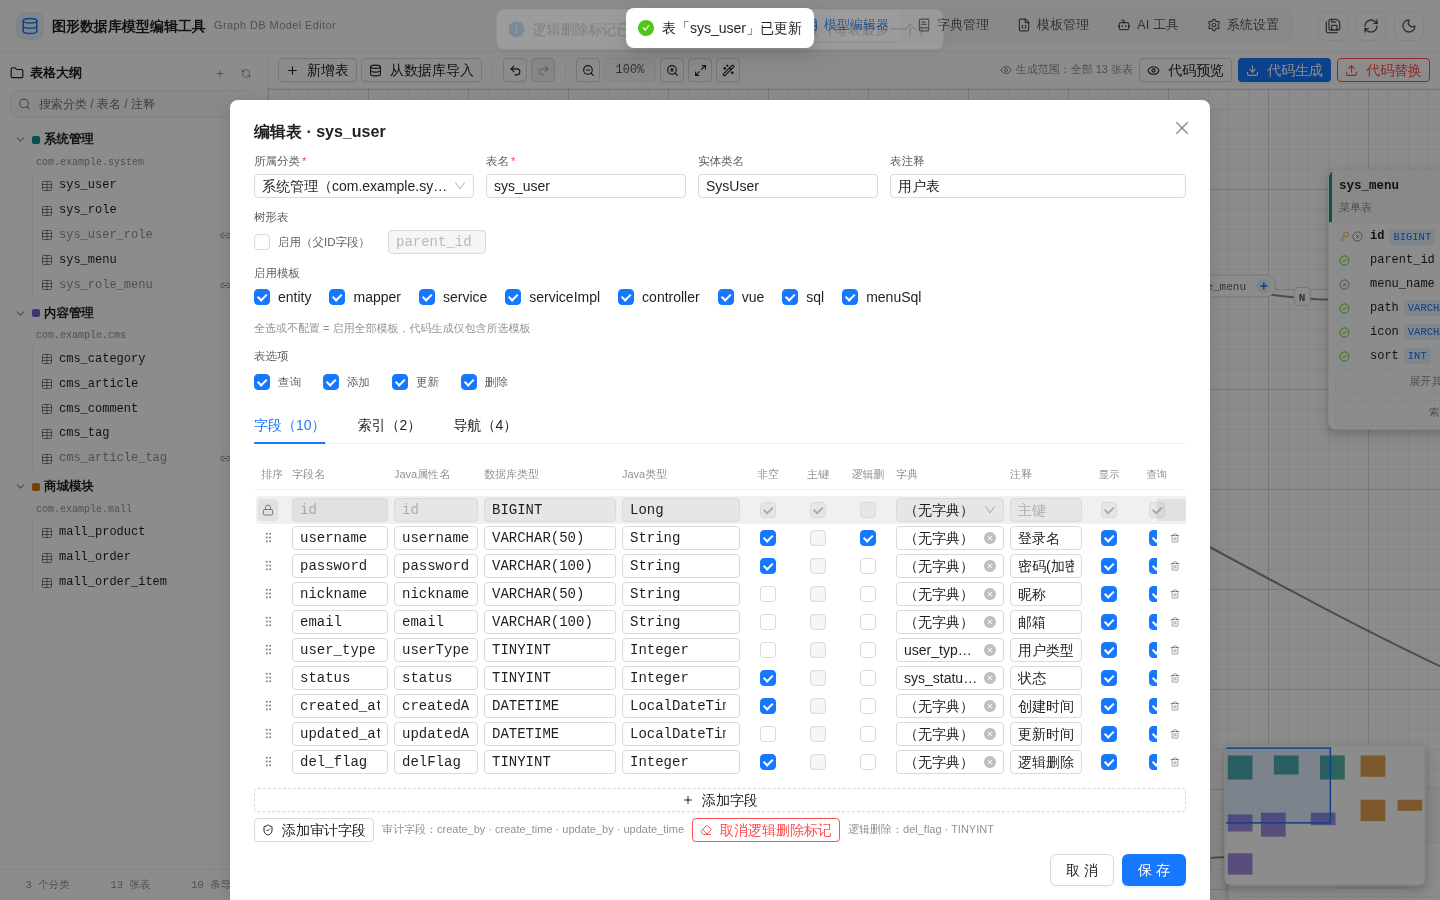
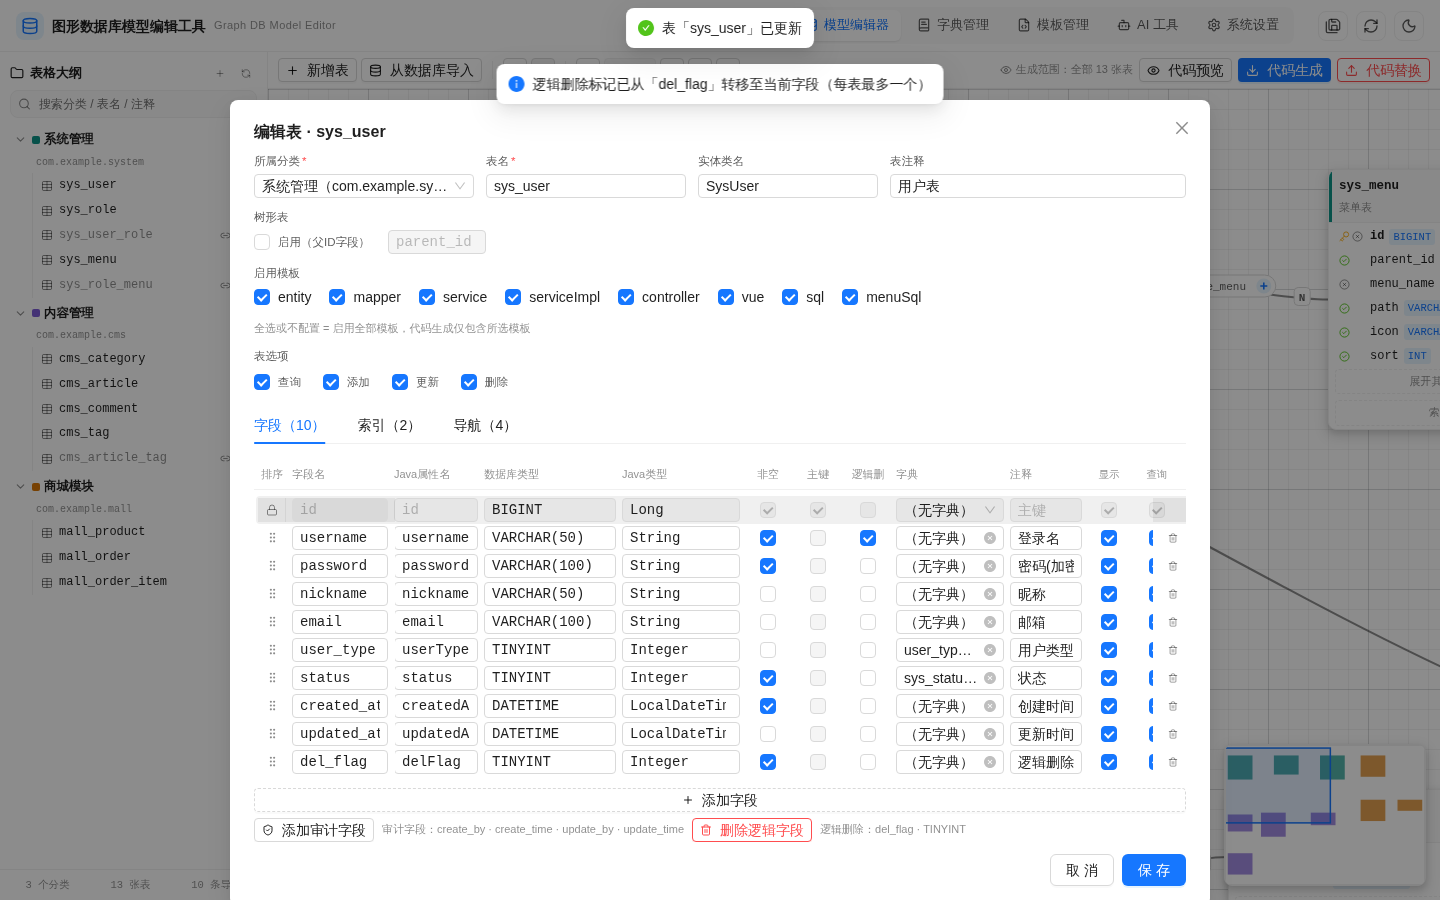
fix: 表编辑固定列滚动透出修复 + 删除逻辑字段改为整列移除——排序/字段名/删除三处固定位置包 .cell-pin 包裹层承担 sticky 吸附并 align-self:stretch 纵向铺满行轨（根因：行高由行内最高格子决定而原 sticky 格子按内容高度居中，上下留空致滚动内容从排序/字段名缝隙与删除按钮底部透出；包裹层连同遮缝伪元素纵向全覆盖，内部控件 flex 居中不变形，表头格子的缝隙仍由表头容器不透明背景兜底），「删除逻辑字段」按钮（原「取消逻辑删除标记」）直接删除该字段并重排序号而非仅置 logicDelete=false，主键首行防御性仅清标记；E2E 新增 19 

Changed region(s): [[0.3438, 0.0622, 0.6562, 0.1244], [0.5, 0.9022, 0.6875, 0.9333]]

diff --git a/src/components/dialog/TableEditDialog.vue b/src/components/dialog/TableEditDialog.vue
@@ -427,15 +427,24 @@ function addLogicDeleteField() {
   message.success(`已按设置约定添加逻辑删除字段「${name}」`)
 }
 
-/** 取消逻辑删除标记（不删列本身，字段可能承载其他用途） */
+/** 删除逻辑删除字段（整列移除并重排序号；主键首行防御性仅清标记） */
 function removeLogicDeleteField() {
   const col = logicDeleteColumn.value
   if (!col) {
     message.info('当前表没有逻辑删除字段')
     return
   }
-  col.logicDelete = false
-  message.success('已取消逻辑删除标记')
+  const name = col.columnName.trim() || col.propertyName || '未命名字段'
+  const idx = draft.columns.indexOf(col)
+  if (idx > 0) {
+    draft.columns.splice(idx, 1)
+    renumber()
+    message.success(`已删除逻辑删除字段「${name}」`)
+  } else {
+    // 防御：主键首行不可删（正常情况下主键行不会带逻辑删除标记）
+    col.logicDelete = false
+    message.warning('主键行不可删除，已仅清除其逻辑删除标记')
+  }
 }
 
 function addColumn() {
@@ -808,30 +817,35 @@ async function save() {
               @dragover.prevent="columnDrag.onDragOver(idx, $event)"
               @drop.prevent="columnDrag.onDrop()"
             >
-              <!-- 主键首行：锁定图标（不可拖拽排序）；其余行：拖拽手柄 -->
-              <span
-                v-if="isPkRow(idx)"
-                class="drag-handle pk-lock"
-                title="主键字段（依设置约定固定为第一个字段，不可修改、不可排序）"
-              >
-                <Lock :size="12" />
-              </span>
-              <span
-                v-else
-                class="drag-handle"
-                title="拖拽排序"
-                @pointerdown="columnDrag.handleDown(idx)"
-              >
-                <GripVertical :size="13" />
-              </span>
-              <a-input
-                v-model:value="col.columnName"
-                size="small"
-                class="mono"
-                placeholder="字段名"
-                :disabled="isPkRow(idx)"
-                @change="onColumnName(col)"
-              />
+              <!-- 固定列包裹层：sticky 吸附 + 纵向铺满行高（防滚动内容从格子上下空隙透出） -->
+              <div class="cell-pin cell-pin-sort">
+                <!-- 主键首行：锁定图标（不可拖拽排序）；其余行：拖拽手柄 -->
+                <span
+                  v-if="isPkRow(idx)"
+                  class="drag-handle pk-lock"
+                  title="主键字段（依设置约定固定为第一个字段，不可修改、不可排序）"
+                >
+                  <Lock :size="12" />
+                </span>
+                <span
+                  v-else
+                  class="drag-handle"
+                  title="拖拽排序"
+                  @pointerdown="columnDrag.handleDown(idx)"
+                >
+                  <GripVertical :size="13" />
+                </span>
+              </div>
+              <div class="cell-pin cell-pin-name">
+                <a-input
+                  v-model:value="col.columnName"
+                  size="small"
+                  class="mono"
+                  placeholder="字段名"
+                  :disabled="isPkRow(idx)"
+                  @change="onColumnName(col)"
+                />
+              </div>
               <a-input
                 v-model:value="col.propertyName"
                 size="small"
@@ -916,16 +930,18 @@ async function save() {
                   :disabled="isPkRow(idx)"
                 />
               </template>
-              <button
-                v-if="!isPkRow(idx)"
-                class="row-del"
-                type="button"
-                title="删除字段"
-                @click="removeColumn(idx)"
-              >
-                <Trash2 :size="12" />
-              </button>
-              <span v-else class="row-del-placeholder" title="主键字段不可删除"></span>
+              <div class="cell-pin cell-pin-del">
+                <button
+                  v-if="!isPkRow(idx)"
+                  class="row-del"
+                  type="button"
+                  title="删除字段"
+                  @click="removeColumn(idx)"
+                >
+                  <Trash2 :size="12" />
+                </button>
+                <span v-else class="row-del-placeholder" title="主键字段不可删除"></span>
+              </div>
             </div>
           </div>
         </div>
@@ -969,10 +985,11 @@ async function save() {
             size="small"
             danger
             class="logic-del-btn"
+            title="删除当前逻辑删除字段（整列移除）"
             @click="removeLogicDeleteField"
           >
-            <template #icon><Eraser :size="12" /></template>
-            取消逻辑删除标记
+            <template #icon><Trash2 :size="12" /></template>
+            删除逻辑字段
           </a-button>
           <span class="audit-tip" :title="`逻辑删除字段：${logicDeleteLabel}`">
             逻辑删除：{{ logicDeleteLabel }}
@@ -1213,49 +1230,82 @@ async function save() {
 
 /*
  * 左右固定列（横向滚动时吸附视口两缘，不随滚动条移动）：
- * - 第 1 格（排序手柄）吸附 left:0，第 2 格（字段名）吸附 left:34px（28px 列宽 + 6px 列距）
- * - 末格（删除按钮）吸附 right:0
- * 表头 .columns-head 与每行 .column-row 同为 .cols-grid，选择器一并命中
- * （表头容器另有 sticky top，与格子级 sticky left 正交叠加，竖横双向均吸附）。
- * sticky 格子需不透明背景遮盖滚动穿过的内容，行悬停 / 主键行底色需同步覆盖。
+ * - 行内三个固定位置（排序手柄 / 字段名 / 删除按钮）包 .cell-pin 包裹层承担
+ *   sticky + 不透明背景，并 align-self: stretch 纵向铺满行轨——
+ *   行高由行内最高格子决定（如复选框列），格子本身若按内容高度居中（align-items: center）
+ *   会上下留空，横向滚动时中间列内容即从这些空隙透过（排序/字段名缝隙、删除按钮底部透色）；
+ *   包裹层铺满行高后，连同遮缝伪元素一起实现纵向全覆盖，内部控件 flex 居中不变形。
+ * - 表头 .columns-head 的格子仍是 span 直接 sticky：表头容器背景不透明且铺满
+ *   全宽（横向可滚时盒子必不窄于视口），缝隙处恒有容器背景兜底，格子背景
+ *   只需遮挡滚过的表头文字即可。
  */
-.cols-grid > :nth-child(1),
-.cols-grid > :nth-child(2),
-.cols-grid > :last-child {
+.columns-head.cols-grid > :nth-child(1),
+.columns-head.cols-grid > :nth-child(2),
+.columns-head.cols-grid > :last-child {
   position: sticky;
   z-index: 1;
   background: var(--dbm-bg-raise);
 }
 
-.cols-grid > :nth-child(1) {
+.columns-head.cols-grid > :nth-child(1) {
   left: 0;
 }
 
-.cols-grid > :nth-child(2) {
+.columns-head.cols-grid > :nth-child(2) {
   left: 34px;
 }
 
-.cols-grid > :last-child {
+.columns-head.cols-grid > :last-child {
   right: 0;
 }
 
-/* 行悬停 / 主键行底色同步到 sticky 格子（格子自身不透明背景优先于行背景） */
-.column-row:hover > :nth-child(1),
-.column-row:hover > :nth-child(2),
-.column-row:hover > :last-child,
-.column-row.pk-row > :nth-child(1),
-.column-row.pk-row > :nth-child(2),
-.column-row.pk-row > :last-child {
+/* 行内固定列包裹层：sticky 吸附两缘 + 纵向 stretch 铺满行轨（根因修复） */
+.cell-pin {
+  position: sticky;
+  z-index: 1;
+  align-self: stretch;
+  display: flex;
+  align-items: center;
+  background: var(--dbm-bg-raise);
+}
+
+/* 排序手柄 / 删除按钮为定宽小控件，水平居中即可 */
+.cell-pin-sort,
+.cell-pin-del {
+  justify-content: center;
+}
+
+.cell-pin-sort {
+  left: 0;
+}
+
+.cell-pin-name {
+  left: 34px;
+}
+
+.cell-pin-del {
+  right: 0;
+}
+
+/* 字段名输入框撑满包裹层宽（flex 子项不再自动占满轨道宽） */
+.cell-pin-name > :deep(*) {
+  width: 100%;
+}
+
+/* 行悬停 / 主键行底色同步到固定列（包裹层不透明背景优先于行背景） */
+.column-row:hover > .cell-pin,
+.column-row.pk-row > .cell-pin {
   background: var(--dbm-bg-hover);
 }
 
 /*
- * 间隙遮缝：sticky 格子向相邻列方向延伸 7px（覆盖 6px 列距 + 1px 抗锯齿），
- * 背景随格子 inherit（悬停/主键行同步变色），滚动内容从延伸带下方穿过。
+ * 间隙遮缝：固定列向相邻列方向延伸 7px（覆盖 6px 列距 + 1px 抗锯齿），
+ * 背景随包裹层 inherit（悬停/主键行同步变色），滚动内容从延伸带下方穿过；
+ * 包裹层已铺满行高，伪元素 top/bottom 同步铺满，纵向不再有透出空隙。
  */
-.cols-grid > :nth-child(2)::before,
-.cols-grid > :nth-child(2)::after,
-.cols-grid > :last-child::before {
+.cell-pin-name::before,
+.cell-pin-name::after,
+.cell-pin-del::before {
   content: '';
   position: absolute;
   top: 0;
@@ -1264,15 +1314,15 @@ async function save() {
   background: inherit;
 }
 
-.cols-grid > :nth-child(2)::before {
+.cell-pin-name::before {
   left: -7px;
 }
 
-.cols-grid > :nth-child(2)::after {
+.cell-pin-name::after {
   right: -7px;
 }
 
-.cols-grid > :last-child::before {
+.cell-pin-del::before {
   left: -7px;
 }
 

diff --git a/README.md b/README.md
@@ -183,7 +183,7 @@ createApp(() => h(DBManagerView, { api: myApi }))
 
 ### 编辑对话框
 
-- **表编辑**：双击卡片/大纲表名或右键菜单触发；**第一个字段固定为主键**（依「系统设置 → 字段约定」约定生成，不可修改、不可排序、不可删除，每表强制拥有；打开旧表时自动归一——同名字段上移到首行并对齐约定属性，缺失则补建）；字段（增删改/拖拽手柄排序/类型自动映射 Java 类型/字典关联/逻辑删标记）、**审计字段一键增删**（「添加审计字段」按设置约定补齐 create_by/create_time/update_by/update_time（Java 属性名自动转小驼峰 createBy 等），已存在的同名字段跳过；「删除审计字段」整组移除）、**逻辑删除字段**（「逻辑删」列勾选标记软删除字段，**每表至多一个**——勾选新的会自动转移标记并提示；「添加逻辑删除字段」按设置约定一键补齐（同名字段存在则直接复用打标记），「取消逻辑删除标记」仅清除标记不删列）、索引（类型下拉选项来自「系统设置 → 索引类型」）、导航列表（跳转编辑/删除）；窄视口下字段表格横向滚动时**排序/字段名列固定吸附左侧、删除按钮固定吸附右侧**（不随滚动条移动，表头同步吸附）
+- **表编辑**：双击卡片/大纲表名或右键菜单触发；**第一个字段固定为主键**（依「系统设置 → 字段约定」约定生成，不可修改、不可排序、不可删除，每表强制拥有；打开旧表时自动归一——同名字段上移到首行并对齐约定属性，缺失则补建）；字段（增删改/拖拽手柄排序/类型自动映射 Java 类型/字典关联/逻辑删标记）、**审计字段一键增删**（「添加审计字段」按设置约定补齐 create_by/create_time/update_by/update_time（Java 属性名自动转小驼峰 createBy 等），已存在的同名字段跳过；「删除审计字段」整组移除）、**逻辑删除字段**（「逻辑删」列勾选标记软删除字段，**每表至多一个**——勾选新的会自动转移标记并提示；「添加逻辑删除字段」按设置约定一键补齐（同名字段存在则直接复用打标记），「删除逻辑字段」直接整列移除该字段）、索引（类型下拉选项来自「系统设置 → 索引类型」）、导航列表（跳转编辑/删除）；窄视口下字段表格横向滚动时**排序/字段名列固定吸附左侧、删除按钮固定吸附右侧**（不随滚动条移动，表头同步吸附）
 - **导航编辑**：四种类型、两端关联属性、属性名、级联操作（自动/无动作/删除/设为Null，双向独立配置）、NN 中间表（自动创建或选择已有表）、一键反转方向
 - **从数据库导入**：经 `ManagerApi.importFromDB()` 读取库表结构（含索引），勾选导入；字段 Java 类型默认值由「系统设置 → 列默认类型」规则依序正则匹配推导（悬停可预览各字段与索引归一化结果），未命中回退内置类型映射；导入的索引类型不在设置列表时归一为列表首项
 
